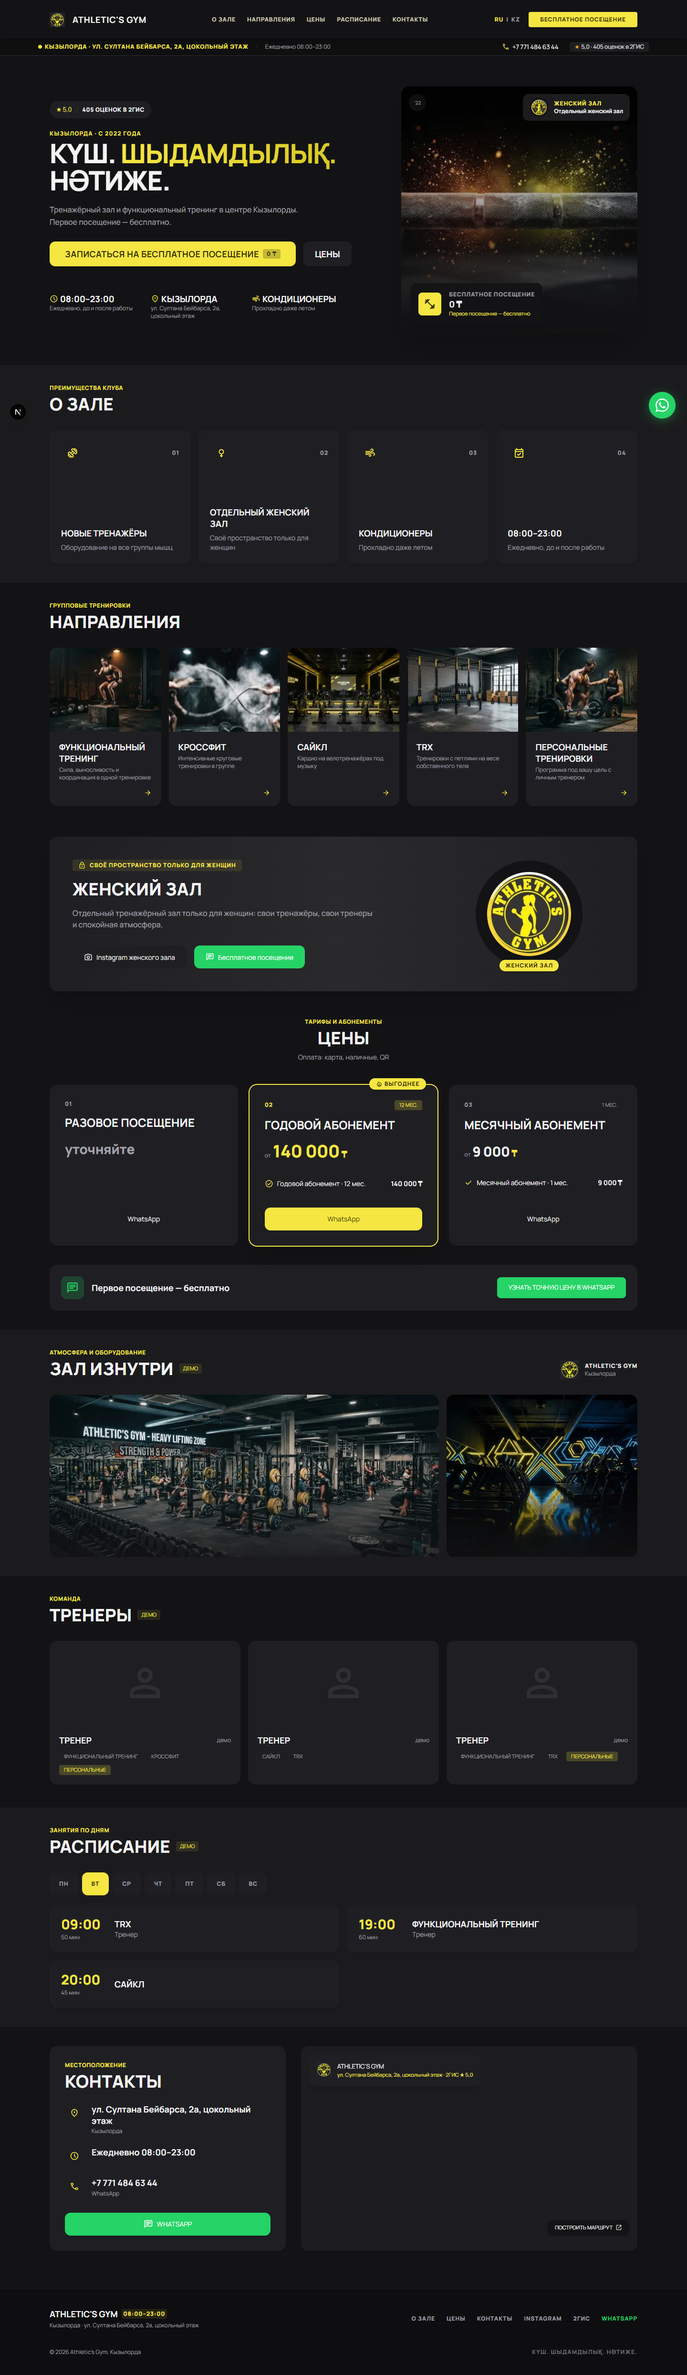
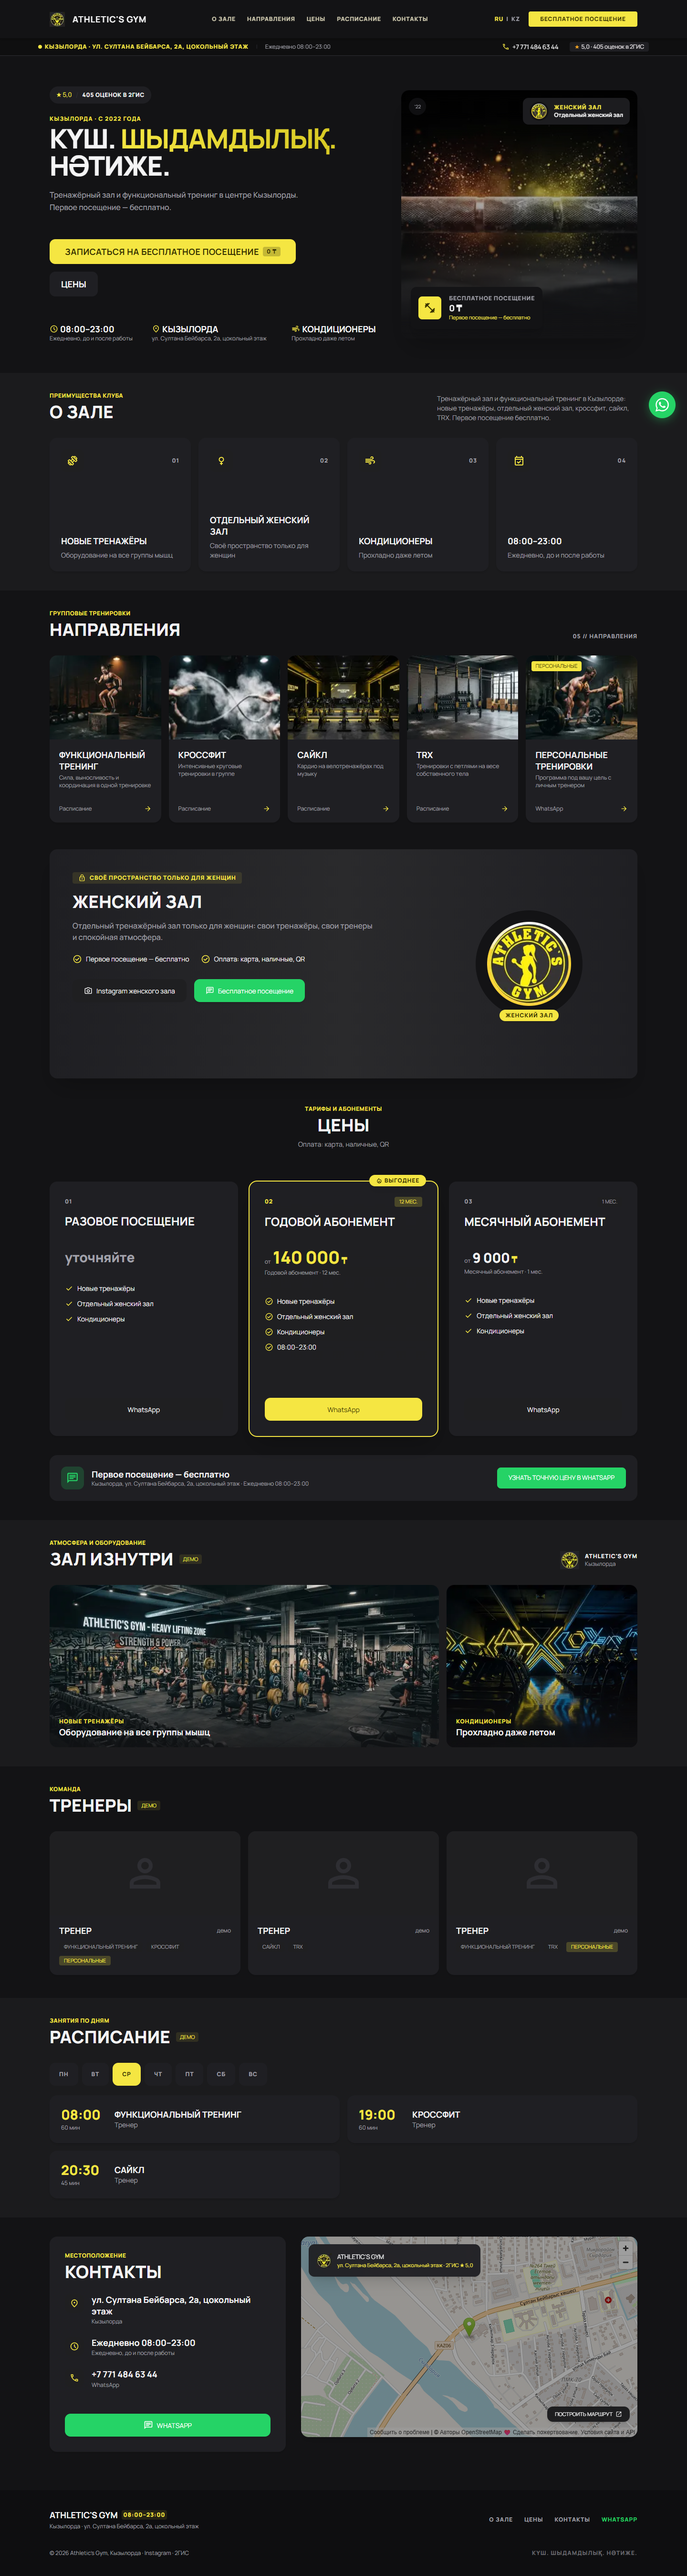
Главная: подгонка под макет Stitch по пиксельному сравнению
Высоты всех секций совпадают с макетом на 1440 px; добавлены абзац в
«О зале», счётчик и подписи в «Направлениях», списки с галочками в
«Ценах», подписи в галерее. Diff-картинки — в design/stitch/diff.

diff --git a/src/components/site/sections.tsx b/src/components/site/sections.tsx
@@ -203,9 +203,9 @@ export function Hero({ t }: Props) {
               </h1>
             </div>
 
-            <p className="max-w-[580px] pt-1 text-body-lg leading-relaxed text-text-muted">{t.hero.subtitle}</p>
+            <p className="max-w-[580px] pt-1 text-body-lg leading-relaxed text-text-muted lg:min-h-[82px]">{t.hero.subtitle}</p>
 
-            <div className="flex w-full flex-wrap items-center gap-4 pt-3 sm:w-auto">
+            <div className="flex w-full flex-wrap items-center gap-4 pt-3 sm:w-auto lg:flex-col lg:items-start">
               <a
                 href={whatsappUrl(t.wa.trial)}
                 target="_blank"
@@ -223,7 +223,7 @@ export function Hero({ t }: Props) {
               </a>
             </div>
 
-            <div className="mt-4 grid w-full max-w-[620px] grid-cols-1 gap-4 pt-6 sm:grid-cols-3">
+            <div className="mt-4 grid w-full max-w-[620px] grid-cols-1 gap-4 pt-6 sm:grid-cols-3 lg:max-w-none lg:grid-cols-[1fr_1.4fr_1fr]">
               {stats.map(({ Icon, title, text }) => (
                 <div key={title} className="flex flex-col">
                   <span className="flex items-center gap-1 text-headline-sm uppercase text-text-primary">
@@ -288,7 +288,11 @@ export function About({ t }: Props) {
   return (
     <section id="about" className={`w-full bg-surface-container-low ${sectionY}`}>
       <div className={container}>
-        <SectionHead eyebrow={t.eyebrow.about} title={t.about.title} />
+        <SectionHead
+          eyebrow={t.eyebrow.about}
+          title={t.about.title}
+          aside={<p className="max-w-[420px] text-body-md text-text-muted">{t.meta.description}</p>}
+        />
         <div className="grid grid-cols-1 gap-4 md:grid-cols-2 lg:grid-cols-4">
           {t.about.items.map((item, i) => {
             const Icon = icons[i] ?? ExerciseSym;
@@ -338,21 +342,22 @@ const disciplinePhoto: Record<string, string> = {
 const programCard =
   "group flex w-64 shrink-0 snap-start flex-col overflow-hidden rounded-2xl bg-surface-card shadow-md transition-all hover:-translate-y-1 sm:w-auto";
 
-function ProgramBody({ title, text }: { title: string; text: string }) {
+function ProgramBody({ title, text, caption }: { title: string; text: string; caption: string }) {
   return (
-    <div className="flex grow flex-col justify-between p-5">
+    <div className="flex grow flex-col justify-between p-5 lg:min-h-[174px]">
       <div>
         <h3 className="mb-1 text-headline-sm uppercase text-text-primary">{title}</h3>
         <p className="text-body-sm text-text-muted">{text}</p>
       </div>
-      <div className="flex items-center justify-end pt-4 text-[12px] text-text-muted">
+      <div className="flex items-center justify-between pt-4 text-[12px] text-text-muted">
+        <span>{caption}</span>
         <ArrowForwardSym className="h-4 w-4 text-primary-container" />
       </div>
     </div>
   );
 }
 
-function ProgramPhoto({ src, cropBottom }: { src?: string; cropBottom?: boolean }) {
+function ProgramPhoto({ src, cropBottom, chip }: { src?: string; cropBottom?: boolean; chip?: string }) {
   return (
     <div className="relative h-44 w-full overflow-hidden bg-surface-container">
       {src ? (
@@ -368,6 +373,11 @@ function ProgramPhoto({ src, cropBottom }: { src?: string; cropBottom?: boolean 
           <ExerciseSym className="h-16 w-16" />
         </div>
       )}
+      {chip && (
+        <span className="absolute left-3 top-3 rounded-sm bg-primary-container px-2 py-0.5 text-[11px] uppercase text-on-primary">
+          {chip}
+        </span>
+      )}
     </div>
   );
 }
@@ -376,8 +386,16 @@ export function Disciplines({ locale, t, items }: Props & { items: DisciplineDat
   return (
     <section id="disciplines" className={`w-full ${sectionY}`}>
       <div className={container}>
-        <SectionHead eyebrow={t.eyebrow.disciplines} title={t.disciplines.title} />
-        <div className="no-scrollbar -mx-4 flex snap-x gap-4 overflow-x-auto px-4 pb-2 sm:mx-0 sm:grid sm:grid-cols-2 sm:overflow-visible sm:px-0 lg:grid-cols-5">
+        <SectionHead
+          eyebrow={t.eyebrow.disciplines}
+          title={t.disciplines.title}
+          aside={
+            <span className={`${label} text-text-muted`}>
+              {String(items.length + 1).padStart(2, "0")} {"//"} {t.disciplines.title}
+            </span>
+          }
+        />
+        <div className="no-scrollbar -mx-4 flex snap-x gap-4 overflow-x-auto px-4 pb-2 sm:mx-0 sm:grid sm:grid-cols-2 sm:overflow-visible sm:px-0 sm:pb-0 lg:grid-cols-5">
           {items.map((d) => (
             <a key={d.id} href="#schedule" className={programCard}>
               {/* на фото кроссфита из макета на полу написано чужое название клуба — низ кадра обрезаем */}
@@ -385,12 +403,13 @@ export function Disciplines({ locale, t, items }: Props & { items: DisciplineDat
               <ProgramBody
                 title={pick(locale, d.nameRu, d.nameKk)}
                 text={pick(locale, d.descriptionRu, d.descriptionKk)}
+                caption={t.nav.schedule}
               />
             </a>
           ))}
           <a href={whatsappUrl(t.wa.personal)} target="_blank" rel="noopener noreferrer" className={programCard}>
-            <ProgramPhoto src="/stitch/personal.jpg" />
-            <ProgramBody title={t.disciplines.personalTitle} text={t.disciplines.personalText} />
+            <ProgramPhoto src="/stitch/personal.jpg" chip={t.trainers.personal} />
+            <ProgramBody title={t.disciplines.personalTitle} text={t.disciplines.personalText} caption={t.cta.whatsapp} />
           </a>
         </div>
       </div>
@@ -404,15 +423,23 @@ export function Women({ t }: Props) {
   return (
     <section id="women" className="w-full py-4">
       <div className={container}>
-        <div className="relative w-full overflow-hidden rounded-2xl bg-linear-to-r from-surface-card via-surface-container-high to-surface-card p-8 shadow-2xl lg:p-12">
-          <div className="relative z-10 grid grid-cols-1 items-center gap-8 lg:grid-cols-12">
-            <div className="flex flex-col items-start gap-4 lg:col-span-8">
+        <div className="relative w-full overflow-hidden rounded-2xl bg-linear-to-r from-surface-card via-surface-container-high to-surface-card p-8 shadow-2xl lg:flex lg:min-h-[480px] lg:p-12">
+          <div className="relative z-10 grid w-full grid-cols-1 items-center gap-8 lg:grid-cols-12">
+            <div className="flex flex-col items-start gap-4 lg:col-span-8 lg:self-start">
               <div className={`${label} inline-flex items-center gap-2 rounded-sm bg-primary-container/10 px-3 py-1 text-primary-container`}>
                 <LockSym className="h-4 w-4 shrink-0" />
                 {t.about.items[1].text}
               </div>
               <h2 className={h2}>{t.women.title}</h2>
               <p className="max-w-[640px] text-body-lg text-text-muted">{t.women.text}</p>
+              <div className="flex flex-wrap items-center gap-x-6 gap-y-3 pt-2 text-body-md text-text-primary">
+                {[t.prices.trialNote, t.prices.payment].map((x) => (
+                  <div key={x} className="flex items-center gap-2">
+                    <CheckCircleSym className="h-5 w-5 shrink-0 text-primary-container" />
+                    <span>{x}</span>
+                  </div>
+                ))}
+              </div>
               <div className="flex flex-wrap items-center gap-4 pt-4">
                 <a
                   href={site.instagramWomen}
@@ -462,6 +489,8 @@ export type TariffData = {
   category: string;
   nameRu: string;
   nameKk: string | null;
+  descriptionRu?: string | null;
+  descriptionKk?: string | null;
   price: number;
   durationValue: number;
   durationUnit: string;
@@ -484,7 +513,7 @@ export function Prices({ locale, t, items }: Props & { items: TariffData[] }) {
         <div className="mx-auto mb-12 max-w-[680px] text-center">
           <div className={eyebrow}>{t.eyebrow.prices}</div>
           <h2 className={h2}>{t.prices.title}</h2>
-          <p className="mt-2 text-body-md text-text-muted">{t.prices.payment}</p>
+          <p className="mt-2 text-body-md text-text-muted lg:min-h-10">{t.prices.payment}</p>
         </div>
 
         <div className={`grid grid-cols-1 items-stretch gap-6 ${cats.length === 4 ? "md:grid-cols-2 xl:grid-cols-4" : "md:grid-cols-3"}`}>
@@ -492,13 +521,18 @@ export function Prices({ locale, t, items }: Props & { items: TariffData[] }) {
             const list = items.filter((x) => x.category === cat);
             const cheapest = list.length ? list.reduce((a, b) => (b.price < a.price ? b : a)) : null;
             const highlight = cat === "YEARLY" && cheapest !== null;
+            const description = cheapest ? pick(locale, cheapest.descriptionRu ?? "", cheapest.descriptionKk ?? null) : "";
+            // Строки с галочками: сначала Тарифы категории, затем общие преимущества зала — как в макете, 4 строки у акцентной карточки и 3 у остальных
+            const others = list.filter((x) => x !== cheapest);
+            const perks = t.about.items.map((x) => x.title).slice(0, Math.max(2, (highlight ? 4 : 3) - others.length));
+            const Check = highlight ? CheckCircleSym : CheckSym;
             return (
               <div
                 key={cat}
                 className={
                   highlight
-                    ? "relative flex flex-col justify-between rounded-2xl bg-linear-to-b from-surface-card via-surface-container to-surface-card p-8 shadow-2xl outline-2 outline-primary-container"
-                    : "flex flex-col justify-between rounded-2xl bg-surface-card p-8 shadow-md"
+                    ? "relative flex flex-col justify-between rounded-2xl bg-linear-to-b from-surface-card via-surface-container to-surface-card p-8 shadow-2xl outline-2 outline-primary-container lg:min-h-[533px]"
+                    : "flex flex-col justify-between rounded-2xl bg-surface-card p-8 shadow-md lg:min-h-[533px]"
                 }
               >
                 {highlight && (
@@ -508,7 +542,7 @@ export function Prices({ locale, t, items }: Props & { items: TariffData[] }) {
                   </div>
                 )}
                 <div>
-                  <div className="mb-4 flex items-center justify-between">
+                  <div className="mb-4 flex min-h-5 items-center justify-between">
                     <span className={`${label} ${highlight ? "text-primary-container" : "text-text-muted"}`}>
                       {String(i + 1).padStart(2, "0")}
                     </span>
@@ -523,6 +557,7 @@ export function Prices({ locale, t, items }: Props & { items: TariffData[] }) {
                     )}
                   </div>
                   <h3 className="text-headline-md uppercase text-text-primary">{t.prices.categories[cat]}</h3>
+                  <p className="mt-1 min-h-4 text-body-sm text-text-muted">{description}</p>
                   <div className="my-6">
                     {cheapest ? (
                       <div className="flex items-baseline gap-1">
@@ -542,25 +577,31 @@ export function Prices({ locale, t, items }: Props & { items: TariffData[] }) {
                     ) : (
                       <div className="text-price-numeral text-text-muted">{t.prices.ask}</div>
                     )}
+                    {cheapest && (
+                      <span className="text-body-sm text-text-muted">
+                        {pick(locale, cheapest.nameRu, cheapest.nameKk)}
+                        {cheapest.durationUnit !== "VISIT" && duration(cheapest) ? ` · ${duration(cheapest)}` : ""}
+                      </span>
+                    )}
                   </div>
-                  {list.length > 0 && (
-                    <ul className="flex flex-col gap-3 py-4 text-body-md text-text-primary">
-                      {list.map((x) => (
+                  <ul className="flex flex-col gap-3 py-4 text-body-md text-text-primary">
+                    {others.map((x) => (
                         <li key={x.id} className="flex items-center gap-2">
-                          {highlight ? (
-                            <CheckCircleSym className="h-[18px] w-[18px] shrink-0 text-primary-container" />
-                          ) : (
-                            <CheckSym className="h-[18px] w-[18px] shrink-0 text-primary-container" />
-                          )}
-                          <span className="min-w-0 grow">
+                          <Check className="h-[18px] w-[18px] shrink-0 text-primary-container" />
+                          <span className="min-w-0 grow font-bold">
                             {pick(locale, x.nameRu, x.nameKk)}
                             {x.durationUnit !== "VISIT" && duration(x) ? ` · ${duration(x)}` : ""}
                           </span>
                           <span className="shrink-0 font-bold">{splitNumber(x.price)} ₸</span>
                         </li>
-                      ))}
-                    </ul>
-                  )}
+                    ))}
+                    {perks.map((x) => (
+                      <li key={x} className="flex items-center gap-2">
+                        <Check className="h-[18px] w-[18px] shrink-0 text-primary-container" />
+                        <span>{x}</span>
+                      </li>
+                    ))}
+                  </ul>
                 </div>
                 <div className="pt-6">
                   <a
@@ -586,7 +627,12 @@ export function Prices({ locale, t, items }: Props & { items: TariffData[] }) {
             <div className="flex h-12 w-12 shrink-0 items-center justify-center rounded-xl bg-whatsapp-green/20 text-whatsapp-green">
               <ChatSym className="h-[26px] w-[26px]" />
             </div>
-            <div className="text-headline-sm text-text-primary">{t.prices.trialNote}</div>
+            <div>
+              <div className="text-headline-sm text-text-primary">{t.prices.trialNote}</div>
+              <p className="text-body-sm text-text-muted">
+                {t.contacts.city}, {t.contacts.address} · {t.contacts.hours}
+              </p>
+            </div>
           </div>
           <a
             href={whatsappUrl(t.wa.price)}
@@ -606,8 +652,8 @@ export function Prices({ locale, t, items }: Props & { items: TariffData[] }) {
 
 export function Gallery({ t }: Props) {
   const tiles = [
-    { src: "/stitch/gallery-weights.jpg", span: "md:col-span-8", sizes: "(min-width: 768px) 820px, 100vw" },
-    { src: "/stitch/gallery-cardio.jpg", span: "md:col-span-4", sizes: "(min-width: 768px) 400px, 100vw" },
+    { src: "/stitch/gallery-weights.jpg", span: "md:col-span-8", sizes: "(min-width: 768px) 820px, 100vw", item: t.about.items[0] },
+    { src: "/stitch/gallery-cardio.jpg", span: "md:col-span-4", sizes: "(min-width: 768px) 400px, 100vw", item: t.about.items[2] },
   ];
   return (
     <section id="gallery" className={`w-full bg-surface-container-low ${sectionY}`}>
@@ -637,6 +683,10 @@ export function Gallery({ t }: Props) {
                 className="object-cover transition-transform duration-700 group-hover:scale-105"
               />
               <div className="absolute inset-0 bg-linear-to-t from-background/80 via-transparent to-transparent" />
+              <div className="absolute bottom-5 left-5">
+                <span className={`${label} text-primary-container`}>{tile.item.title}</span>
+                <div className="text-headline-sm text-text-primary">{tile.item.text}</div>
+              </div>
             </div>
           ))}
         </div>
@@ -724,14 +774,14 @@ export function ScheduleSection({
 export function Contacts({ t }: Props) {
   const rows = [
     { Icon: LocationOnSym, title: t.contacts.address, text: t.contacts.city, href: undefined },
-    { Icon: ScheduleSym, title: t.contacts.hours, text: undefined, href: undefined },
+    { Icon: ScheduleSym, title: t.contacts.hours, text: t.about.items[3].text, href: undefined },
     { Icon: CallSym, title: site.phoneDisplay, text: t.cta.whatsapp, href: `tel:${site.phoneTel}` },
   ];
   return (
     <section id="contacts" className={`w-full ${sectionY}`}>
       <div className={container}>
         <div className="grid grid-cols-1 items-stretch gap-8 lg:grid-cols-12">
-          <div className="flex flex-col justify-between rounded-2xl bg-surface-card p-8 shadow-md lg:col-span-5">
+          <div className="flex flex-col justify-between rounded-2xl bg-surface-card p-8 shadow-md lg:col-span-5 lg:min-h-[451px]">
             <div>
               <div className={eyebrow}>{t.eyebrow.contacts}</div>
               <h2 className={`${h2} mb-6`}>{t.contacts.title}</h2>
@@ -768,7 +818,7 @@ export function Contacts({ t }: Props) {
             </div>
           </div>
 
-          <div className="relative h-[320px] overflow-hidden rounded-2xl bg-surface-card shadow-lg md:h-[420px] lg:col-span-7 lg:h-auto lg:min-h-[420px]">
+          <div className="relative h-[320px] overflow-hidden rounded-2xl bg-surface-card shadow-lg md:h-[420px] lg:col-span-7">
             <iframe
               title={t.contacts.mapTitle}
               src={mapEmbedUrl}
@@ -830,12 +880,6 @@ export function Footer({ t }: Props) {
                 {text}
               </a>
             ))}
-            <a href={site.instagram} target="_blank" rel="noopener noreferrer" className="transition-colors hover:text-primary-container">
-              {t.contacts.instagram}
-            </a>
-            <a href={site.twoGis} target="_blank" rel="noopener noreferrer" className="transition-colors hover:text-primary-container">
-              2ГИС
-            </a>
             <a href={whatsappUrl(t.wa.trial)} target="_blank" rel="noopener noreferrer" className="text-whatsapp-green">
               {t.cta.whatsapp}
             </a>
@@ -843,7 +887,14 @@ export function Footer({ t }: Props) {
         </div>
         <div className="flex flex-col items-center justify-between gap-2 pt-4 text-body-sm text-text-muted sm:flex-row">
           <p>
-            © {new Date().getFullYear()} {t.footer.rights}
+            © {new Date().getFullYear()} {t.footer.rights} ·{" "}
+            <a href={site.instagram} target="_blank" rel="noopener noreferrer" className="transition-colors hover:text-primary-container">
+              {t.contacts.instagram}
+            </a>{" "}
+            ·{" "}
+            <a href={site.twoGis} target="_blank" rel="noopener noreferrer" className="transition-colors hover:text-primary-container">
+              2ГИС
+            </a>
           </p>
           <p className={`${label} tracking-widest text-text-muted/60`}>{t.hero.title}</p>
         </div>
